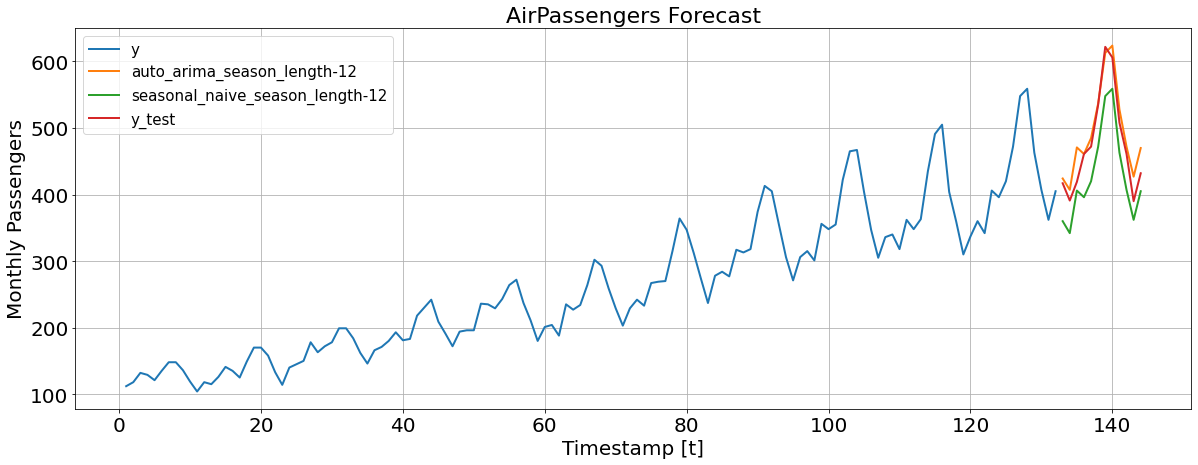
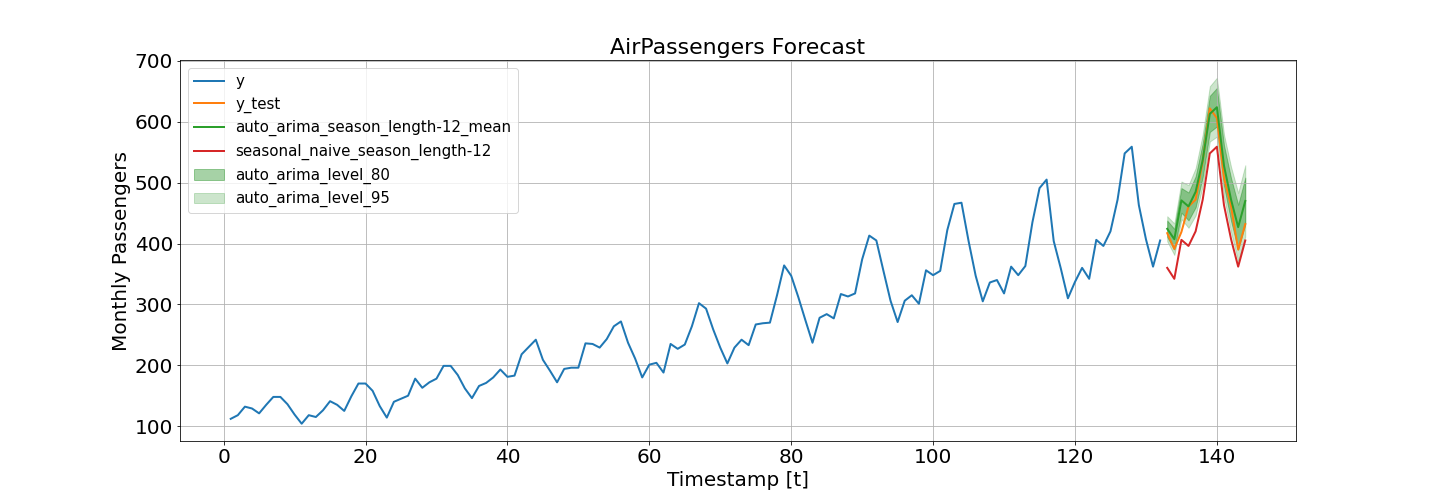
feat: add prediction intervals to readme

diff --git a/README.md b/README.md
@@ -25,6 +25,7 @@
 
 * Fastest and most accurate `auto_arima` in `Python` and `R` (for the moment...).
 * **New! [2022-03-01]**: Inclusion of `exogenous variables`.
+* **New! [2022-03-07]**: Inclusion of `prediction intervals`.
 * Out of the box implementation of other classical models and benchmarks like `exponential smoothing`, `croston`, `sesonal naive`, `random walk with drift` and `tbs`.
 * 20x faster than `pmdarima`.
 * 1.5x faster than `R`.
@@ -160,7 +161,7 @@ fcst = StatsForecast(
     freq='M', 
     n_jobs=1
 )
-forecasts = fcst.forecast(12)
+forecasts = fcst.forecast(12, level=(80, 95))
 ```
 
 ```python
@@ -169,7 +170,20 @@ forecasts['y_test'] = ap_test
 
 ```python
 fig, ax = plt.subplots(1, 1, figsize = (20, 7))
-pd.concat([series_train, forecasts]).set_index('ds').plot(ax=ax, linewidth=2)
+df_plot = pd.concat([series_train, forecasts]).set_index('ds')
+df_plot[['y', 'y_test', 'auto_arima_season_length-12_mean', 'seasonal_naive_season_length-12']].plot(ax=ax, linewidth=2)
+ax.fill_between(df_plot.index, 
+                df_plot['auto_arima_season_length-12_lo-80'], 
+                df_plot['auto_arima_season_length-12_hi-80'],
+                alpha=.35,
+                color='green',
+                label='auto_arima_level_80')
+ax.fill_between(df_plot.index, 
+                df_plot['auto_arima_season_length-12_lo-95'], 
+                df_plot['auto_arima_season_length-12_hi-95'],
+                alpha=.2,
+                color='green',
+                label='auto_arima_level_95')
 ax.set_title('AirPassengers Forecast', fontsize=22)
 ax.set_ylabel('Monthly Passengers', fontsize=20)
 ax.set_xlabel('Timestamp [t]', fontsize=20)
@@ -231,7 +245,7 @@ fcst = StatsForecast(
     freq='M', 
     n_jobs=1
 )
-forecasts = fcst.forecast(12, xreg=xreg_test)
+forecasts = fcst.forecast(12, xreg=xreg_test, level=(80, 95))
 ```
 
 ```python
